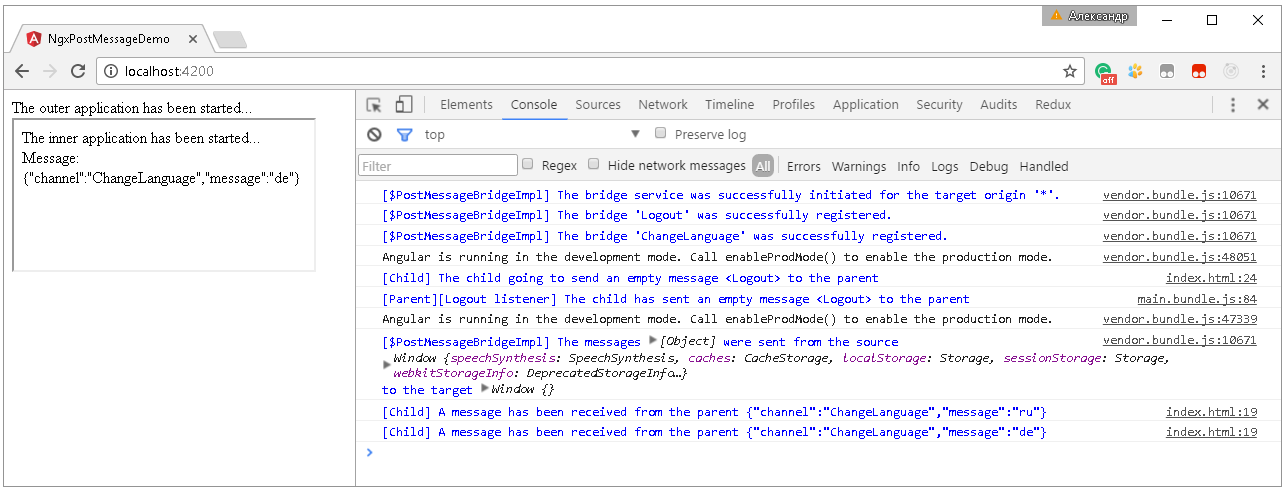
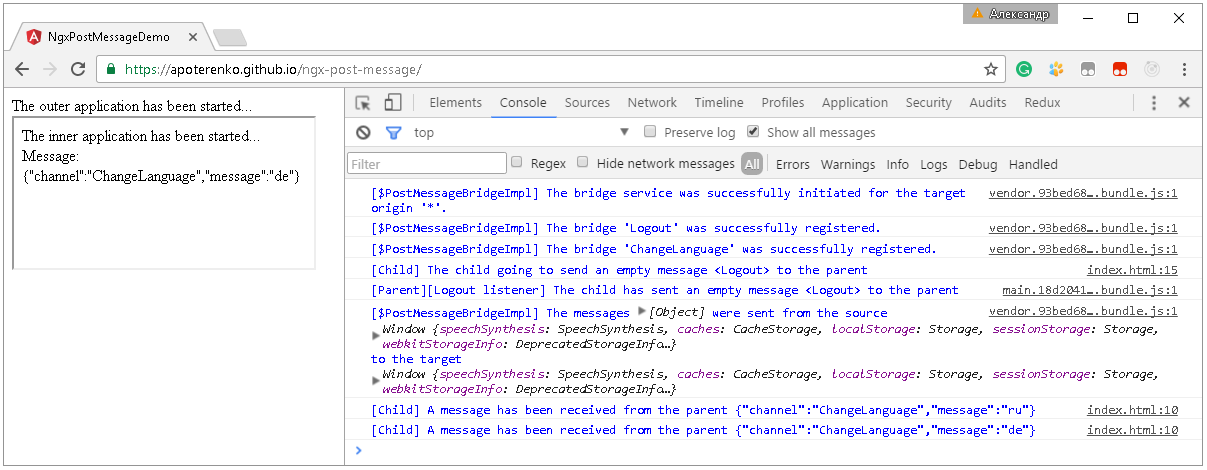
*live demo link

Changed region(s): [[0.0, 0.0, 1.0, 0.9234], [0.0, 0.9532, 1.0, 1.0]]

diff --git a/README.md b/README.md
@@ -91,11 +91,11 @@ export class AppFramePostMessageModule {
 
 ## Demo
 
+* [Live demo](https://apoterenko.github.io/ngx-post-message)
 * [ngx-post-message-demo](demo/ngx-post-message-demo)
 ```sh
 npm start
 ```
-
 * [ngx-post-message-demo-frame](demo/ngx-post-message-demo-frame)
 ```sh
 npm start
